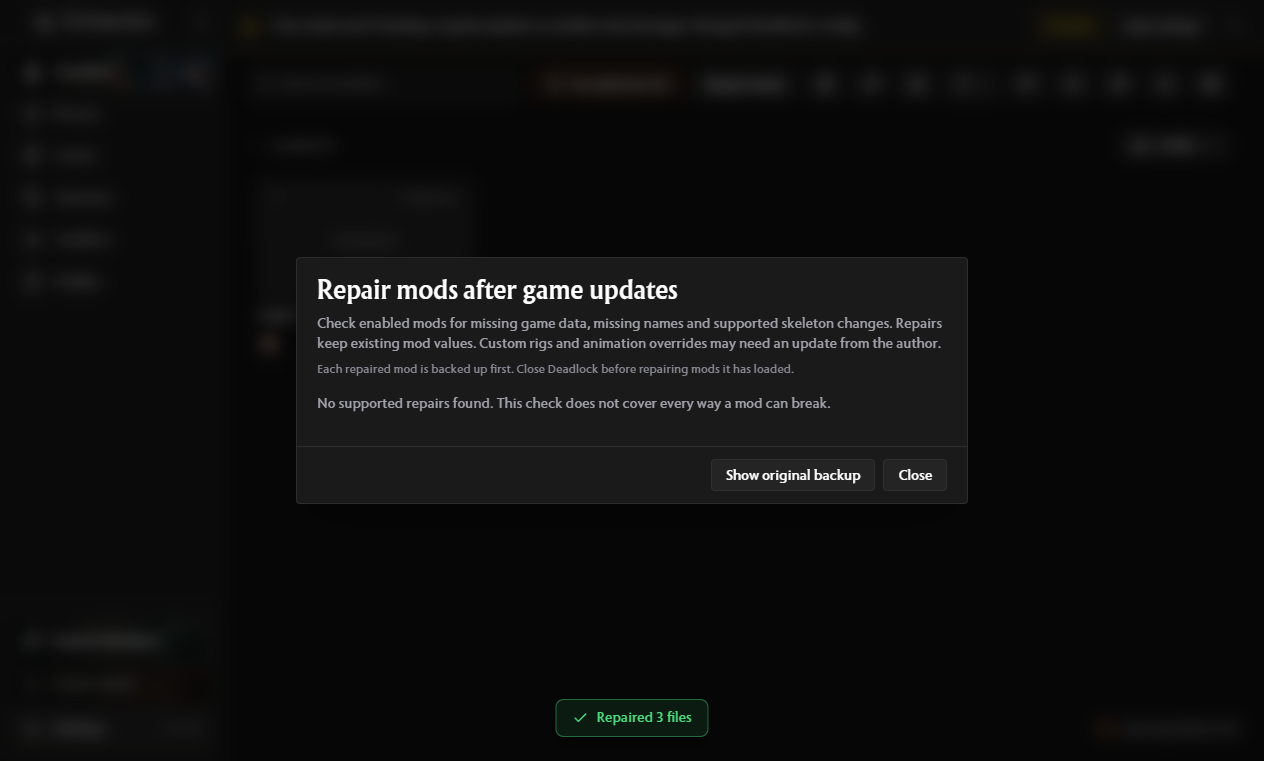
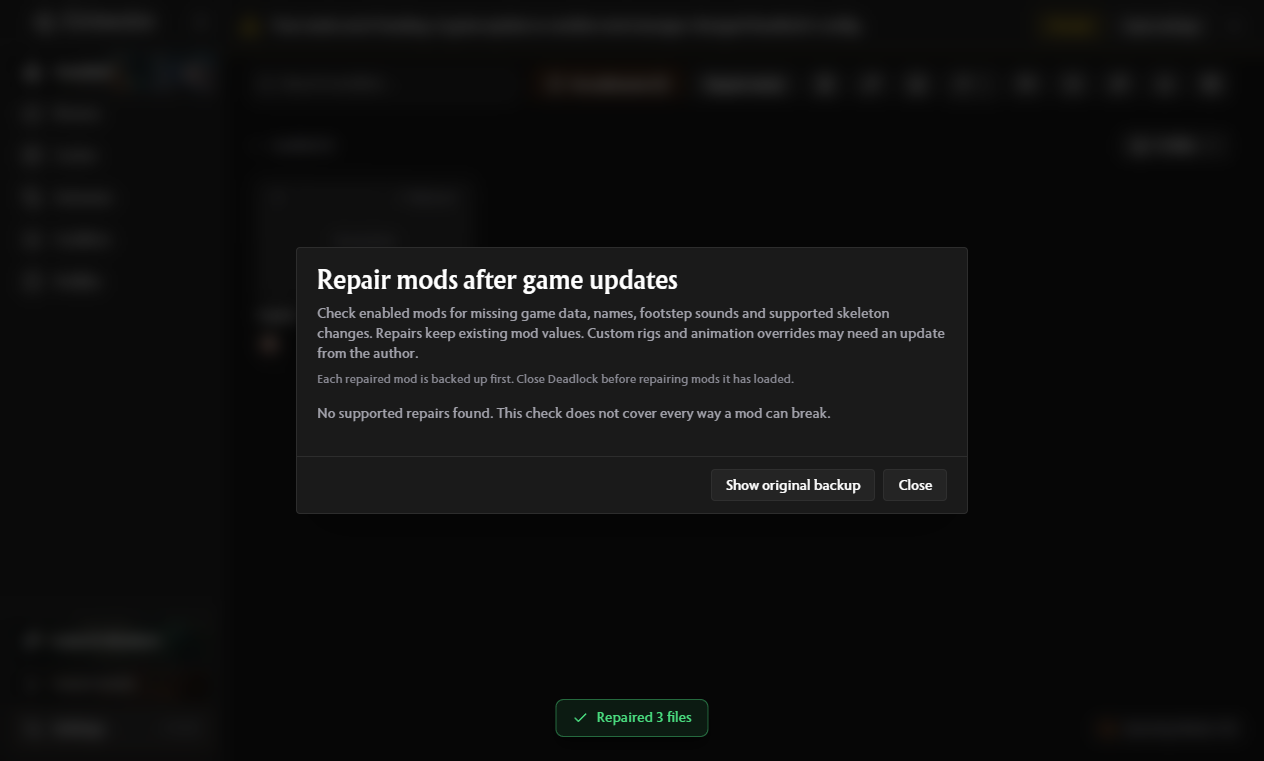
feat(installed): include missing footstep sound repairs

Changed region(s): [[0.2468, 0.3627, 0.7405, 0.5742], [0.5554, 0.6045, 0.6788, 0.6649], [0.7097, 0.6045, 0.7405, 0.6649]]

diff --git a/src/components/installed/CompatibilityRepairsModal.tsx b/src/components/installed/CompatibilityRepairsModal.tsx
@@ -82,12 +82,13 @@ export function CompatibilityRepairsModal({ open, onClose, mods }: { open: boole
                 {report.kind === 'failed' ? <p className="mt-2 text-xs text-state-warning">{report.error}</p> : (
                   <ul className="mt-2 space-y-2">
                     {report.findings.map((finding) => (
-                      <li key={finding.entry} className="text-xs text-text-secondary">
+                      <li key={`${finding.kind}:${finding.entry}`} className="text-xs text-text-secondary">
                         <p className="break-all">{finding.entry}</p>
                         <p className={finding.status === 'unsupported' ? 'text-state-warning' : ''}>
                           {finding.status === 'repairable'
                             ? finding.kind === 'data' ? t('installed.repairs.data', { count: finding.changes })
                               : finding.kind === 'localization' ? t('installed.repairs.localization', { count: finding.changes })
+                                : finding.kind === 'sounds' ? t('installed.repairs.sounds')
                                 : t('installed.repairs.skeleton')
                             : t('installed.repairs.unsupported')}
                         </p>

diff --git a/electron/main/services/compatibilityHeal.test.ts b/electron/main/services/compatibilityHeal.test.ts
@@ -76,6 +76,15 @@ it('refuses loaded mods and a disabled experiment before running the engine', as
     expect(await fs.readFile(h.path, 'utf8')).toBe('original');
 });
 
+it('counts a model repaired for both sounds and skeletons as one file', async () => {
+    h.run.mockImplementationOnce(async () => {
+        await fs.writeFile(h.staged, 'repaired');
+        return JSON.stringify(['sounds', 'skeleton'].map((kind) => ({ entry, kind, status: 'repairable', changes: 1, detail: '' })));
+    });
+    const result = await repairModCompatibility(dir, 'skin');
+    expect(result).toMatchObject({ kind: 'repaired', count: 1 });
+});
+
 it('does not replace a mod after a failed safety or preservation check', async () => {
     h.safety.mockRejectedValueOnce(new Error('unsafe'));
     await expect(repairModCompatibility(dir, 'skin')).rejects.toThrow('unsafe');

diff --git a/electron/main/services/compatibilityHeal.ts b/electron/main/services/compatibilityHeal.ts
@@ -88,7 +88,7 @@ export function repairModCompatibility(deadlockPath: string, modId: string): Pro
                 retargetStarted = true;
                 retargetProfileModSha(previousSha, replacementSha);
                 moveSafetySnapshot(staged, mod.path);
-                return { kind: 'repaired', count: repaired.length, backupPath };
+                return { kind: 'repaired', count: changed.size, backupPath };
             } catch (error) {
                 try {
                     await fs.copyFile(backupPath, mod.path);

diff --git a/src/lib/modCompatibility.ts b/src/lib/modCompatibility.ts
@@ -2,7 +2,7 @@ import { z } from 'zod';
 
 export const compatibilityFindingSchema = z.object({
   entry: z.string(),
-  kind: z.enum(['data', 'localization', 'skeleton']),
+  kind: z.enum(['data', 'localization', 'skeleton', 'sounds']),
   status: z.enum(['repairable', 'unsupported']),
   changes: z.number().int().nonnegative(),
   detail: z.string(),

diff --git a/docs/mod-compatibility-repairs.md b/docs/mod-compatibility-repairs.md
@@ -28,6 +28,14 @@ historical indexes, fixtures, or repair implementations are included.
   resource blocks remain authored. Extra sampling-only branches may be absent
   from both models when they cannot affect a deformation bone and have a mapped
   ancestor.
+- Restore an absent `TaggedSoundSettings_t` block from the installed version of
+  the same model. Its tagged-sound tables must exist and have the expected type.
+  This restores bindings used for footsteps and movement sounds on older skins.
+  Existing sound settings, including empty blocks, remain unchanged. The rest of
+  the model's game-data text stays byte-identical. Missing sound-table resource
+  references are appended using the installed model's IDs; authored references
+  remain intact and conflicts are declined. Sound repair remains available
+  when a separate skeleton repair is declined.
 
 Skeleton repairs are declined with custom animation/graph providers, competing
 skeleton overrides, unreadable competing archives, or unsupported structures.
@@ -35,13 +43,16 @@ This version does not migrate authored clips, reconcile different deformation
 rigs, relocate historical model paths, convert retired enums/classes, rebase
 custom masks, or infer historical balance changes. A source value different from
 today's game may be intentional; this implementation does not overwrite it.
-Split archives must be combined before in-place repair.
+Split archives must be combined before in-place repair. Sound repair handles
+missing bindings, not missing animation tags or authored clips. Unknown or
+ambiguous model metadata formats are declined.
 
 ## Verification
 
 Structural writes retain semantic KV3 reference flags, preserve the format GUID,
 decode the result again, and compare values and flags. Non-DATA blocks remain
-byte-identical. Unrepresented streamed resource tails prevent rebuilding.
+byte-identical except the resource-reference list when a missing sound-table
+reference must be added. Unrepresented streamed resource tails prevent rebuilding.
 The packed output is read back and every entry is compared with its intended
 replacement or the source. Original archives are retained in backups; game
 files are never repair outputs. Unsupported findings remain visible after
@@ -58,7 +69,7 @@ cargo run -p vpkmerge-core --example compatibility_fixture -- GAME_PAK OUTPUT_RO
 node scripts/smoke-compatibility.mjs EXE OUTPUT_ROOT SCREENSHOTS
 ```
 
-The fixture contains a real installed model with its animation bindings removed,
+The fixture contains a real installed model with its animation and sound bindings removed,
 plus small synthetic ability/localization tables. The smoke script copies it to
 a fresh temporary installation, drives the packaged UI through repair, verifies
 the original backup, and checks the resulting archive again. It does not launch
@@ -66,8 +77,9 @@ Deadlock. In-game rendering and animation acceptance remain separate checks.
 
 ## Engine release dependency
 
-The app's fetch script still pins the published vpkmerge v0.22.1. The local test
-package bundles the new locally built engine. Before distributing this feature,
-publish the reviewed engine change and update `scripts/fetch-vpkmerge.mjs` with
+The app's fetch script pins published vpkmerge v0.23.0, which supports the original
+data and skeleton repairs. Footstep binding repair requires the follow-up engine
+change. The local test package bundles that locally built engine. Before
+distributing sound repair, publish the reviewed engine change and update `scripts/fetch-vpkmerge.mjs` with
 that release tag and the Windows, Linux and macOS asset hashes. Do not invent
 hashes or silently use a development binary in release builds.
